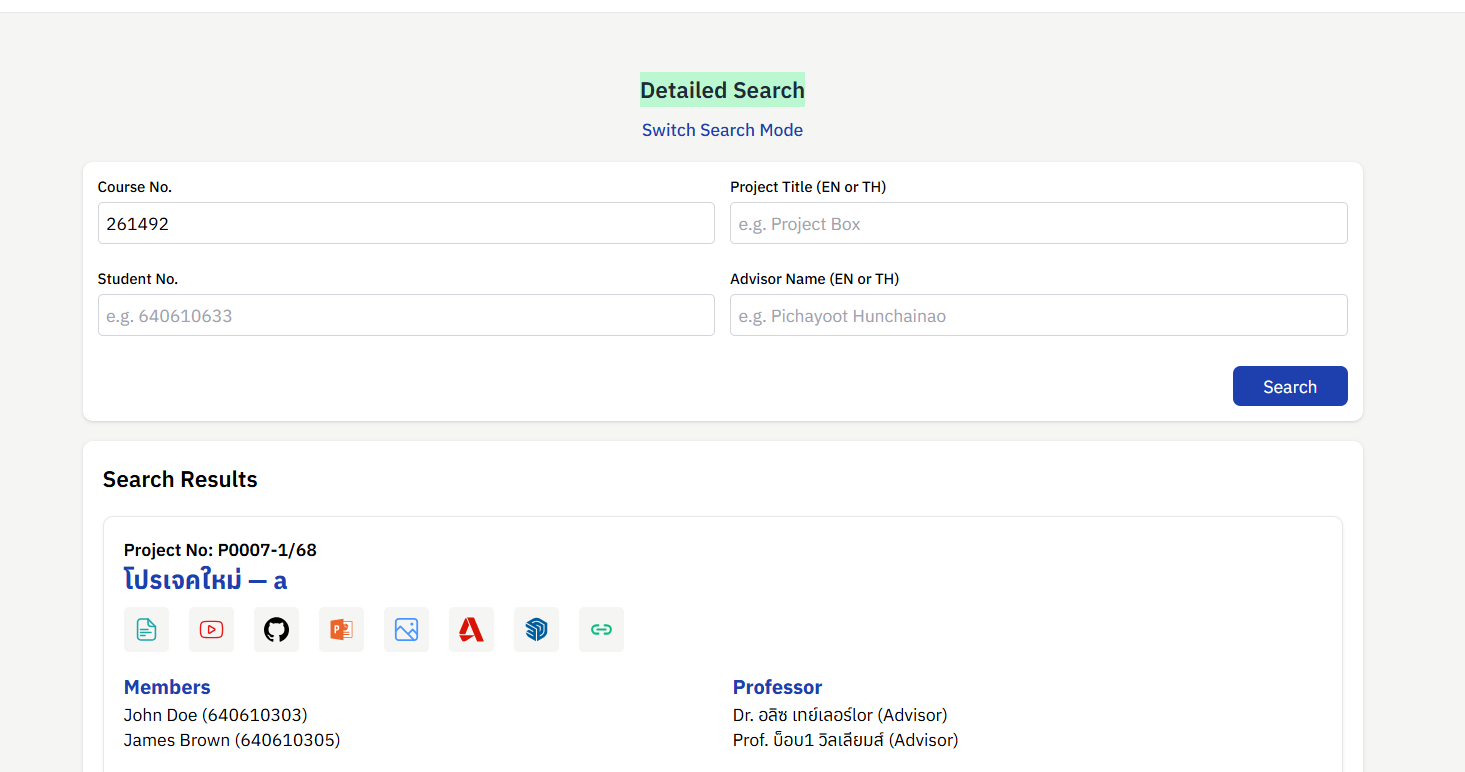
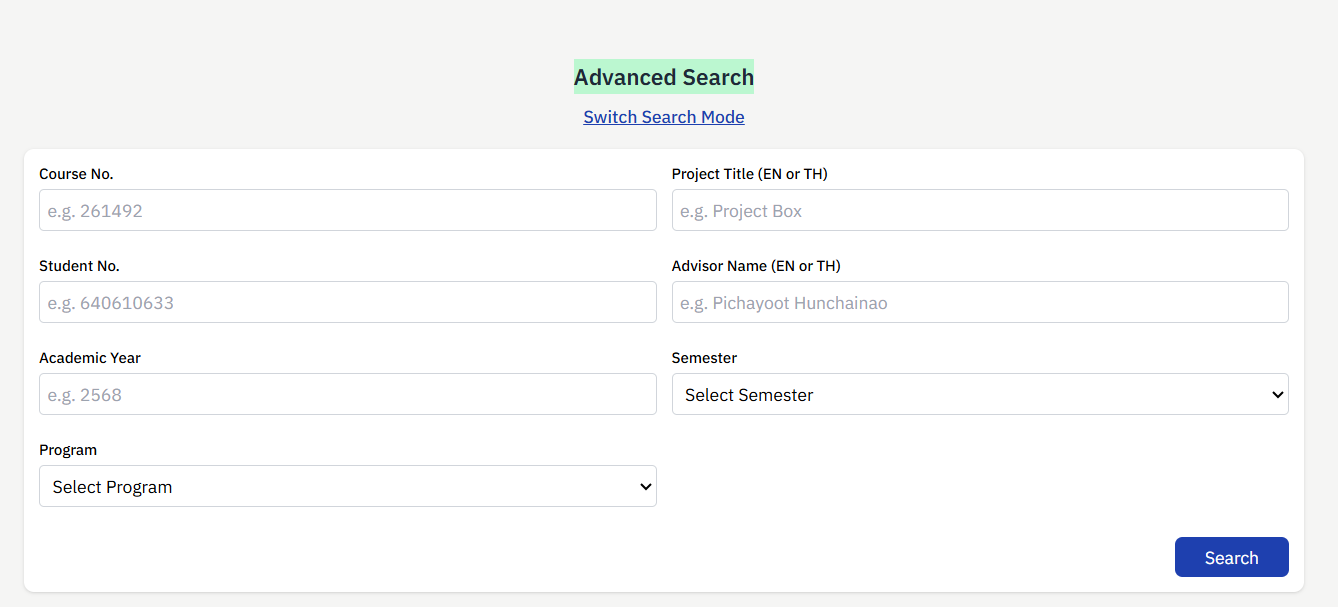
update to build

diff --git a/components/dashboard/ImageCarousel.tsx b/components/dashboard/ImageCarousel.tsx
@@ -1,7 +1,7 @@
 "use client";
 
 import Image from "next/image";
-import { useState, useEffect, ChangeEvent } from "react";
+import { useState, useEffect, useCallback } from "react";
 
 // Define TypeScript interfaces
 interface ImageData {
@@ -16,21 +16,22 @@ interface ImageCarouselProps {
 
 export default function ImageCarousel({ images }: ImageCarouselProps) {
   const [currentIndex, setCurrentIndex] = useState<number>(0);
-  const [descriptions, setDescriptions] = useState<string[]>(
-    images.map((img) => img.description)
-  );
+  // const [descriptions, setDescriptions] = useState<string[]>(
+  //   images.map((img) => img.description)
+  // );
 
   // Go to next image
-  const nextSlide = () => {
+  const nextSlide = useCallback(() => {
     setCurrentIndex((prev) => (prev + 1) % images.length);
-  };
-  // Auto-rotate every 6 seconds
+  }, [images.length]);
+
+  // Auto-rotate every 7 seconds
   useEffect(() => {
     const interval = setInterval(() => {
       nextSlide();
     }, 7000);
     return () => clearInterval(interval);
-  }, [currentIndex ,nextSlide]);
+  }, [nextSlide]);
 
 
   // Go to previous image

diff --git a/app/page.tsx b/app/page.tsx
@@ -75,7 +75,7 @@ export default function Home() {
     <ImageCarousel
       images={[
         { src: "/dashboard/quick_search.png", alt: "Quick Search", description: "Quick Search allows you to search using a single input, combining project name, course, student name, and more" },
-        { src: "/dashboard/detail_search.png", alt: "Detail Search", description: "Detail Search provides structured fields for more precise filtering, helping you find projects efficiently" },
+        { src: "/dashboard/detail_search.png", alt: "Advance Search", description: "Advance Search provides structured fields for more precise filtering, helping you find projects efficiently" },
         { src: "/dashboard/pdf_content_search.png", alt: "PDF Content Search", description: "PDF Content Search scans project PDFs to find specific words within the document’s content." },
       ]}
     />

diff --git a/components/configform/upload.tsx b/components/configform/upload.tsx
@@ -3,7 +3,7 @@ import updateResourceStatus from "@/utils/configform/updateProjectResourceConfig
 import React, { useState, useEffect } from "react";
 import axios from "axios";
 import Image from "next/image";
-import { ProjectResourceConfig } from "@/models/ProjectRespurceConfig";
+import { ProjectResourceConfig } from "@/models/ProjectResourceConfig";
 
 // API controller for creating a project resource
 const createProjectResource = async (data: {
@@ -62,7 +62,7 @@ const UploadResourceSection: React.FC = () => {
     };
   
     try {
-      await updateResourceStatus(updatedData);
+      await updateResourceStatus(null, updatedData); // Pass null for iconFile
       setTableData((prevData) =>
         prevData.map((dataItem) =>
           dataItem.id === item.id

diff --git a/hooks/useOAuthCallback.ts b/hooks/useOAuthCallback.ts
@@ -1,8 +1,8 @@
-import { useEffect, useState } from "react";
+"use client";
+import { useEffect, useState   } from "react";
 import { useRouter, useSearchParams } from "next/navigation";
 import axios, { AxiosError } from "axios";
 import { SignInResponse } from "@/app/api/signIn/route";
-
 interface OAuthCallbackState {
 	isLoading: boolean;
 	error: string | null;

diff --git a/app/cmuEntraIDCallback/layout.tsx b/app/cmuEntraIDCallback/layout.tsx
@@ -1,0 +1,13 @@
+"use client";
+
+import Spinner from "@/components/Spinner";
+import { Suspense } from "react";
+import CMUOAuthCallback from "./page";
+
+export default function CMUCallbackPage() {
+  return (
+    <Suspense fallback={<Spinner />}>
+      <CMUOAuthCallback />
+    </Suspense>
+  );
+}

diff --git a/app/cmuEntraIDCallback/page.tsx b/app/cmuEntraIDCallback/page.tsx
@@ -2,7 +2,6 @@
 
 import Spinner from "@/components/Spinner";
 import { useOAuthCallback } from "@/hooks/useOAuthCallback";
-
 export default function CMUOAuthCallback() {
 	const { isLoading, error } = useOAuthCallback();
 
